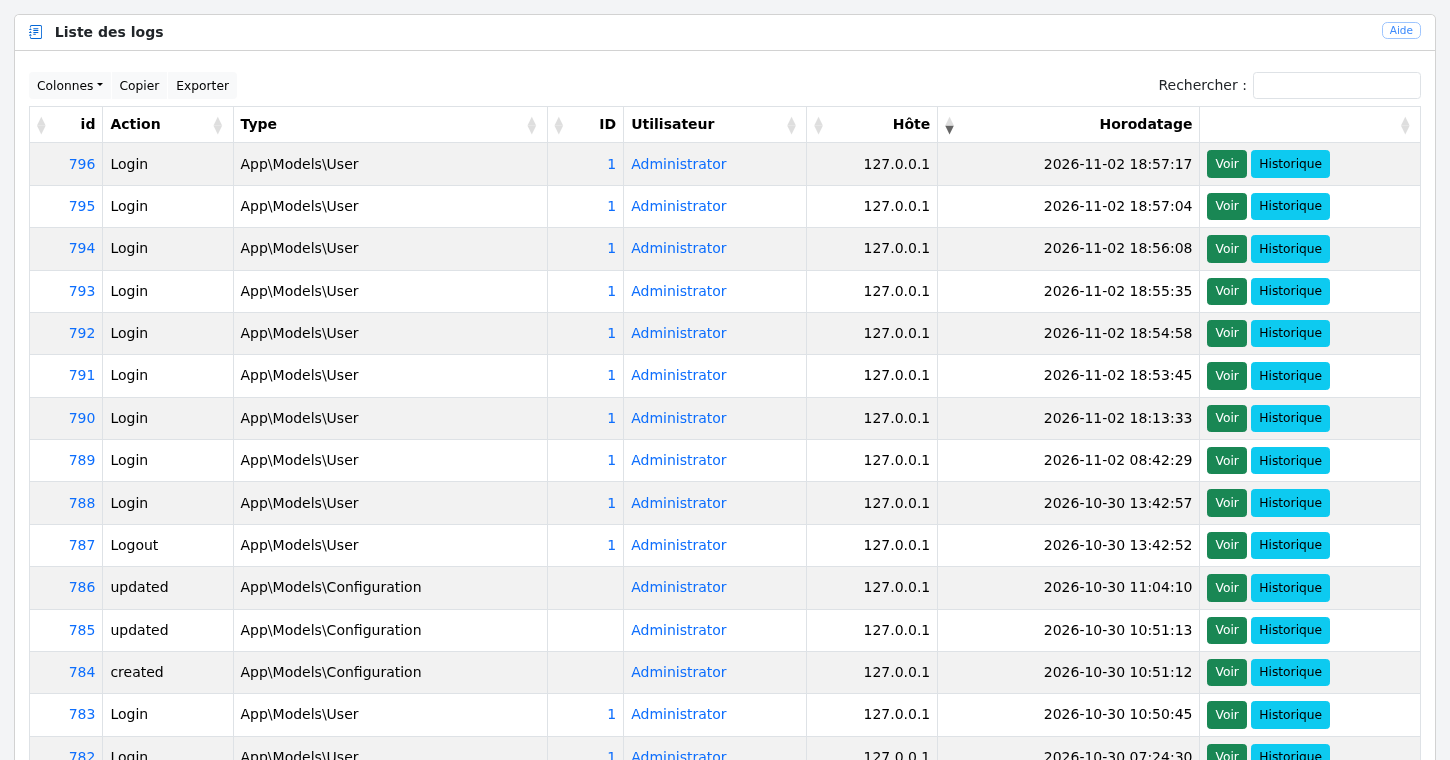
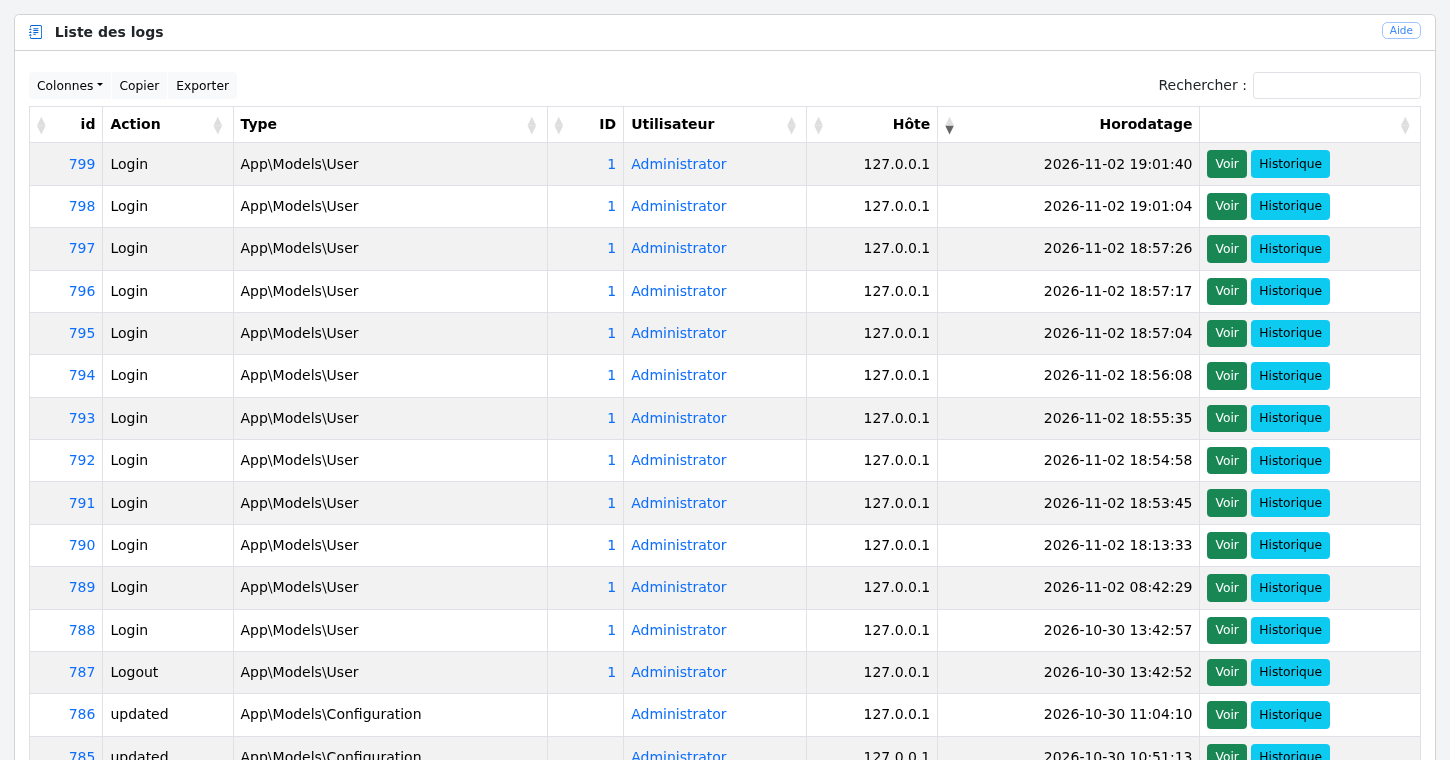
Add the AI panel and data preview screenshots in English, French and German
The screenshot script can now click on elements and wait for a result before the capture.

diff --git a/scripts/screenshots/shots.js b/scripts/screenshots/shots.js
@@ -96,6 +96,11 @@ async function capture(page, screen, lang, values) {
             if (window.jQuery && jQuery.fn.dataTable) jQuery.fn.dataTable.tables({ api: true }).page.len(10).draw();
         } catch (e) {}
     });
+    // Steps before the capture: click on an element, then wait for another one (e.g. the result of an AI analysis)
+    for (const step of screen.steps || []) {
+        if (step.click) await page.locator(step.click).first().click();
+        if (step.waitFor) await page.locator(step.waitFor).first().waitFor({ timeout: 180000 });
+    }
     await page.waitForTimeout(screen.wait || 1200);
 
     const el = page.locator(screen.selector || 'main#content-home').first();

diff --git a/docs/ai.fr.md b/docs/ai.fr.md
@@ -73,7 +73,7 @@ Un clic sur l'icône ouvre un panneau à droite de l'écran. Si l'objet et ses o
 dernière analyse, celle-ci est affichée immédiatement, sans appel à l'agent, avec la mention « Analyse du … —
 inchangée depuis ». Sinon, une nouvelle analyse est lancée ; elle peut prendre jusqu'à une minute.
 
-<!-- TODO capture : images/ai-panel.fr.png -->
+[![Screenshot](images/ai-panel.fr.png)](images/ai-panel.fr.png)
 
 Le panneau contient :
 
@@ -238,7 +238,7 @@ Le lien « Données envoyées », en bas du panneau d'analyse, affiche le contex
 l'agent, après minimisation et masquage. Cet aperçu n'appelle pas l'agent : il peut être consulté
 avant ou après une analyse pour vérifier ce qui part réellement. Il est soumis aux mêmes droits que l'analyse.
 
-<!-- TODO capture : images/ai-preview.fr.png -->
+[![Screenshot](images/ai-preview.fr.png)](images/ai-preview.fr.png)
 
 ### Où vont les données
 

diff --git a/docs/ai.md b/docs/ai.md
@@ -68,7 +68,7 @@ Clicking the icon opens a panel on the right of the screen. If the object and it
 since the last analysis, it is displayed immediately, without calling the agent, with the mention "Analysis of … —
 unchanged since". Otherwise, a new analysis is run; it may take up to a minute.
 
-<!-- TODO capture : images/ai-panel.png -->
+[![Screenshot](images/ai-panel.png)](images/ai-panel.png)
 
 The panel contains:
 
@@ -227,7 +227,7 @@ The "Data sent" link, at the bottom of the analysis panel, displays the context 
 after minimization and masking. This preview does not call the agent: it can be used before or
 after an analysis to check what is actually sent. It is subject to the same rights as the analysis.
 
-<!-- TODO capture : images/ai-preview.png -->
+[![Screenshot](images/ai-preview.png)](images/ai-preview.png)
 
 ### Where the data goes
 

diff --git a/docs/ai.de.md b/docs/ai.de.md
@@ -74,7 +74,7 @@ Objekte seit der letzten Analyse nicht geändert, wird diese sofort und ohne Auf
 Hinweis „Analyse vom … — seitdem unverändert“. Andernfalls wird eine neue Analyse gestartet; sie kann bis zu einer
 Minute dauern.
 
-<!-- TODO capture : images/ai-panel.de.png -->
+[![Screenshot](images/ai-panel.de.png)](images/ai-panel.de.png)
 
 Das Fenster enthält:
 
@@ -242,7 +242,7 @@ Der Link „Gesendete Daten“ unten im Analysefenster zeigt den Kontext genau s
 nach Minimierung und Maskierung. Diese Vorschau ruft den Agenten nicht auf: Sie kann vor oder nach einer
 Analyse genutzt werden, um zu prüfen, was tatsächlich gesendet wird. Sie unterliegt denselben Rechten wie die Analyse.
 
-<!-- TODO capture : images/ai-preview.de.png -->
+[![Screenshot](images/ai-preview.de.png)](images/ai-preview.de.png)
 
 ### Wohin die Daten gehen
 

diff --git a/scripts/screenshots/README.md b/scripts/screenshots/README.md
@@ -62,6 +62,11 @@ ID_control=18 ID_measure_done=1231 npm run docs:screenshots
     * `until`: stops the capture at the top of this element
     * `maxHeight`: maximum height in pixels
     * `wait`: delay in ms before the capture (default: 1200)
+    * `steps`: actions before the capture, each one with a `click` (element to click) and/or a `waitFor` (element to
+      wait for, up to 3 minutes), e.g. to open the AI panel and wait for the analysis
+
+The AI analysis is written in the language of the administrator account, not in the language of the capture: change
+the language of the account before capturing `ai-panel` in each language.
 
 The language is selected with the `change_language` parameter, so the user's language is not modified.
 The lookups set the filters of the measurement list in the session of the account used.
